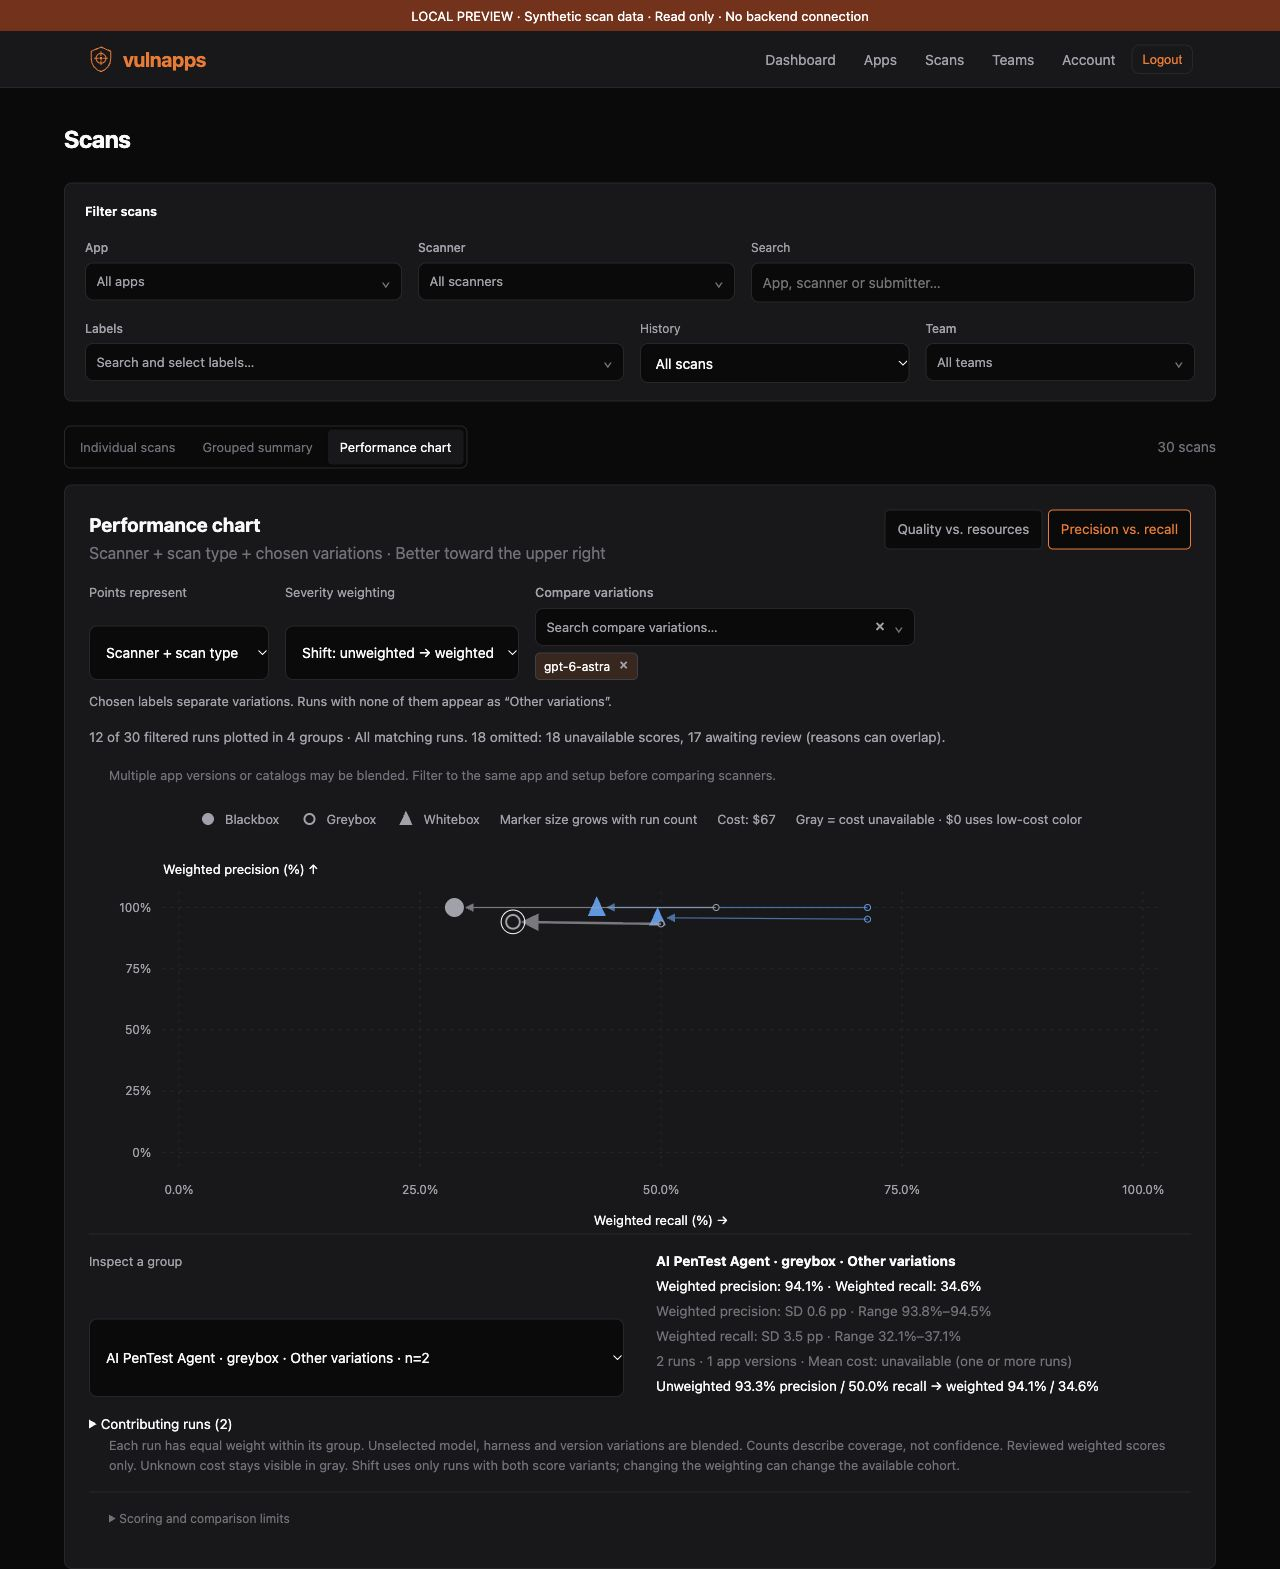
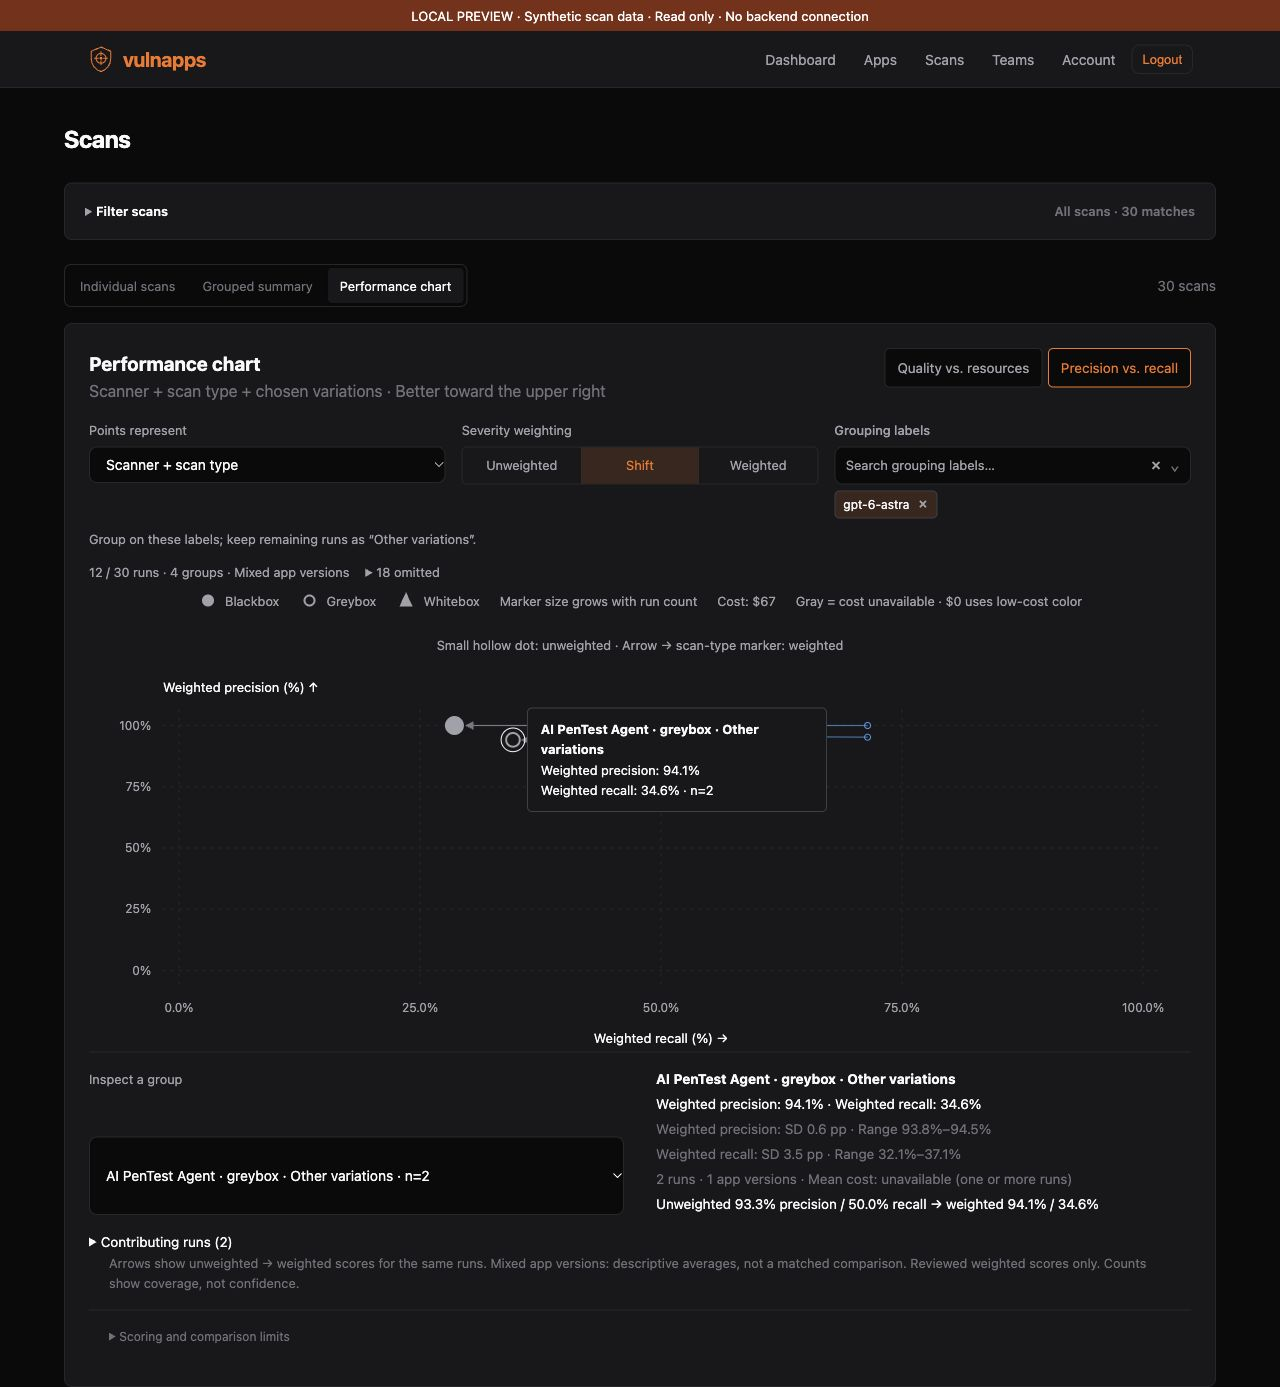
fix(scans): simplify chart controls and reflow

diff --git a/frontend/src/components/ScanPerformanceChart.jsx b/frontend/src/components/ScanPerformanceChart.jsx
@@ -61,6 +61,7 @@ export function ScanPerformanceChart({ scans, labelsMap = {}, resource = 'cost',
   const xLabel = view === 'pr' ? `${weight === 'plain' ? 'Catalog' : 'Weighted'} recall` : chartResources[resource];
   const yLabel = view === 'pr' ? `${weight === 'plain' ? 'Conservative' : 'Weighted'} precision` : chartMetrics[metric];
   const xValue = value => view === 'pr' ? pct(value) : formatChartResource(value, resource);
+  const tooltipWidth = Math.min(300, W - 16);
   const mixedApps = new Set(points.flatMap(point => point.scans.map(scan => scan.app_id))).size > 1;
   const reviewed = view === 'pr' ? weight !== 'plain' : ['weighted_f05', 'weighted_precision'].includes(metric);
   const awaitingReview = reviewed ? scans.filter(scan => scan.metrics?.weighted_score_provisional !== false).length : 0;
@@ -71,7 +72,7 @@ export function ScanPerformanceChart({ scans, labelsMap = {}, resource = 'cost',
   return <section className="card scan-chart" aria-label="Run performance chart">
     <div className="scan-chart-header">
       <div><h2>Performance chart</h2><p className="text-muted">{grouped ? 'Scanner + scan type' : 'One point per run'}{grouped && splitLabels.length ? ' + chosen variations' : ''} · Better toward the {view === 'pr' ? 'upper right' : 'upper left'}</p></div>
-      <div className="scan-chart-switch" aria-label="Chart view">
+      <div className="scan-chart-switch" role="group" aria-label="Chart view">
         <button aria-pressed={view === 'quality'} onClick={() => onAxisChange('chart_plot', 'quality')}>Quality vs. resources</button>
         <button aria-pressed={view === 'pr'} onClick={() => onAxisChange('chart_plot', 'pr')}>Precision vs. recall</button>
       </div>
@@ -88,20 +89,22 @@ export function ScanPerformanceChart({ scans, labelsMap = {}, resource = 'cost',
           <label>X · Resources<select className="form-select" value={resource} onChange={e => onAxisChange('chart_x', e.target.value)}>
             {Object.entries(chartResources).map(([value, label]) => <option key={value} value={value}>{label}</option>)}
           </select></label>
-        </> : <label>Severity weighting<select className="form-select" value={weight} onChange={e => onAxisChange('chart_weight', e.target.value)}>
-          <option value="plain">Unweighted</option><option value="shift">Shift: unweighted → weighted</option><option value="weighted">Weighted</option>
-        </select></label>}
-        {grouped && <div className="scan-chart-variations"><SearchableFilter label="Compare variations" multiple value={splitLabels}
+        </> : <fieldset className="scan-chart-weighting"><legend>Severity weighting</legend><div>
+          {[['plain', 'Unweighted'], ['shift', 'Shift'], ['weighted', 'Weighted']].map(([value, label]) => <label key={value}>
+            <input type="radio" name={`weight-${arrowId}`} value={value} checked={weight === value} onChange={() => onAxisChange('chart_weight', value)} /><span>{label}</span>
+          </label>)}
+        </div></fieldset>}
+        {grouped && <div className="scan-chart-variations"><SearchableFilter label="Grouping labels" multiple value={splitLabels}
           options={labels.map(label => ({ value: label, label }))} onChange={values => onAxisChange('chart_label', values)}
           placeholder="Choose model or harness labels…" allLabel="Blend all variations" /></div>}
       </div>
       {grouped && <p className="scan-chart-variation-help">{splitLabels.length
-        ? 'Chosen labels separate variations. Runs with none of them appear as “Other variations”.'
-        : 'All model and harness variations are blended. Choose labels to compare them separately.'}</p>}
+        ? 'Group on these labels; keep remaining runs as “Other variations”.'
+        : 'Model and harness variations are blended. Choose grouping labels to separate them.'}</p>}
     </div>
-    <p className="scan-chart-coverage" role="status">{plotted} of {scans.length} filtered runs plotted{grouped ? ` in ${points.length} groups` : ''}{latest ? ' · Latest per scanner and app' : ' · All matching runs'}.
-      {excluded > 0 && ` ${excluded} omitted: ${view === 'quality' ? `${missingResource} missing or restricted ${resource}, ` : ''}${missingScore} unavailable scores${awaitingReview ? `, ${awaitingReview} awaiting review` : ''} (reasons can overlap).`}</p>
-    {mixedApps && <p className="scan-summary-note">Multiple app versions or catalogs may be blended. Filter to the same app and setup before comparing scanners.</p>}
+    <div className="scan-chart-status"><p role="status">{plotted} / {scans.length} runs{grouped ? ` · ${points.length} groups` : ''}{latest ? ' · Latest per scanner and app' : ''}{mixedApps ? ' · Mixed app versions' : ''}</p>
+      {excluded > 0 && <details><summary>{excluded} omitted</summary><p>{view === 'quality' ? `${missingResource} missing or restricted ${resource}; ` : ''}{missingScore} unavailable scores{awaitingReview ? `; ${awaitingReview} awaiting review` : ''}. Reasons can overlap.</p></details>}
+    </div>
     {points.length ? <>
       <div className="scan-chart-legend">
         {[...new Set(points.map(point => point.type))].sort().map(type => <span key={type}><svg width="20" height="20" aria-hidden="true"><Marker type={type} x={10} y={10} radius={5} color="var(--text-secondary)" /></svg>{types[type]}</span>)}
@@ -109,6 +112,7 @@ export function ScanPerformanceChart({ scans, labelsMap = {}, resource = 'cost',
         {view === 'quality' ? scanners.map(scanner => <span key={scanner}><i style={{ background: scannerColor(scanner) }} />{scanner}</span>)
           : <><span>Cost: {minCost === null ? costs.length === 0 && points.some(point => point.cost === 0) ? '$0' : 'unavailable' : minCost === maxCost ? formatChartResource(minCost, 'cost') : <>{formatChartResource(minCost, 'cost')}<i className="scan-chart-cost-scale" />{formatChartResource(maxCost, 'cost')} · log scale</>}</span><span>Gray = cost unavailable · $0 uses low-cost color</span></>}
       </div>
+      {view === 'pr' && weight === 'shift' && <p className="scan-chart-shift-key">Small hollow dot: unweighted · Arrow → scan-type marker: weighted</p>}
       <div className="scan-chart-plot" ref={plotRef}>
         <svg viewBox={`0 0 ${W} ${H}`} role="group" aria-label={`${yLabel} versus ${xLabel}. Select a point or use the inspector.`}>
           <defs><marker id={arrowId} viewBox="0 0 10 10" refX="9" refY="5" markerWidth="7" markerHeight="7" orient="auto-start-reverse"><path d="M 0 0 L 10 5 L 0 10 z" fill="context-stroke" /></marker></defs>
@@ -139,6 +143,10 @@ export function ScanPerformanceChart({ scans, labelsMap = {}, resource = 'cost',
             </g>;
           })}
         </svg>
+        {active && <div className="scan-chart-tooltip" aria-hidden="true" style={{ width: tooltipWidth,
+          left: Math.max(8, Math.min(W - tooltipWidth - 8, px(active.x) + 14)), top: Math.max(36, Math.min(H - 105, py(active.y) - 78)) }}>
+          <strong>{active.name}</strong><span>{yLabel}: {pct(active.y)}</span><span>{xLabel}: {xValue(active.x)} · n={active.scans.length}</span>
+        </div>}
       </div>
       <div className="scan-chart-inspector">
         <label>Inspect {grouped ? 'a group' : 'a run'}<select className="form-select" value={selected?.id ?? ''} onChange={e => setSelectedId(e.target.value || null)}>
@@ -155,8 +163,9 @@ export function ScanPerformanceChart({ scans, labelsMap = {}, resource = 'cost',
         <ul>{selected.scans.map(scan => <li key={scan.id}><Link to={`/scans/${scan.id}`}>{runName(scan)}</Link><span className="text-muted"> · {scan.scan_date || 'Date unavailable'} · {(labelsMap[scan.id] || []).map(label => label.name).join(' · ') || 'No labels'}</span></li>)}</ul>
       </details>}
     </> : <div className="scan-chart-empty"><h3>{awaitingReview === scans.length && scans.length ? 'Awaiting review' : 'No runs to plot'}</h3><p>{view === 'pr' ? 'Precision and recall require a scored catalog. Weighted and shift views also require completed finding and FP impact review. Cost is optional.' : 'Choose another metric or resource. Runs need a score and an accessible cost or duration.'}</p></div>}
-    <p className="scan-summary-note">{grouped ? 'Each run has equal weight within its group. Unselected model, harness and version variations are blended. Counts describe coverage, not confidence. ' : ''}{reviewed ? 'Reviewed weighted scores only. ' : ''}{view === 'pr' ? 'Unknown cost stays visible in gray. Shift uses only runs with both score variants; changing the weighting can change the available cohort.' : 'Missing cost or duration omits only that resource point.'}</p>
+    <p className="scan-summary-note">{view === 'pr' && weight === 'shift' ? 'Arrows show unweighted → weighted scores for the same runs. ' : ''}{mixedApps ? 'Mixed app versions: descriptive averages, not a matched comparison. ' : ''}{reviewed ? 'Reviewed weighted scores only. ' : ''}{grouped ? 'Counts show coverage, not confidence.' : ''}</p>
     <details className="scan-stat-help"><summary>Scoring and comparison limits</summary>
+      <p>Each run has equal weight within its group; unselected model, harness and version variations are blended. Choose the same app version and setup for a matched comparison. Unknown cost stays visible in gray on precision/recall; missing cost or duration omits only that resource point. Shift uses only runs with both score variants, so switching weighting can change the available cohort.</p>
       <p>Scanner identifies the tool; labels describe model, harness and other variations. Scan type uses an explicit supported type, otherwise an unambiguous blackbox, greybox/graybox or whitebox label. Missing, conflicting or unsupported types remain unknown. Names and source-access labels never imply a type.</p>
       <p>Unweighted precision in the precision/recall view is TP / (TP + clustered FP + pending); recall is TP / (TP + FN). Pending findings count against precision. This conservative view differs from the pending-excluding precision selectable in quality versus resources.</p>
       <p>Weighted precision uses the canonical reviewed impact score. Weighted recall is credited / available impact, including vulnerability and chain credit; it is impact coverage, not an independent severity-weighted count of findings. Shift arrows connect unweighted to weighted means for the same contributing runs. Reviewer FP penalties use 1/3/9/27 impact points.</p>

diff --git a/frontend/src/style.css b/frontend/src/style.css
@@ -994,11 +994,12 @@ th.sort-desc::after { content: ' ▼'; font-size: 0.625rem; }
 .scan-chart { padding: 1.5rem; }
 .scan-chart-header { display: flex; flex-wrap: wrap; align-items: flex-start; justify-content: space-between; gap: 1rem; }
 .scan-chart-header h2 { font-size: 1.2rem; }
-.scan-chart-controls { display: flex; flex-wrap: wrap; gap: 1rem; }
+.scan-chart-controls { display: grid; grid-template-columns: repeat(auto-fit, minmax(180px, 1fr)); align-items: start; gap: 1rem; }
 .scan-chart-controls label, .scan-chart-inspector label { display: grid; gap: .35rem; font-size: .8rem; color: var(--text-secondary); }
-.scan-chart-controls select { min-width: 180px; }
+.scan-chart-controls > label { min-width: 0; align-content: start; }
+.scan-chart-controls select { width: 100%; min-width: 0; }
 .scan-chart-coverage { margin: 1rem 0; font-size: .85rem; color: var(--text-secondary); }
-.scan-chart-plot { margin-top: 1.25rem; }
+.scan-chart-plot { position: relative; margin-top: 1rem; }
 .scan-chart-plot svg { display: block; width: 100%; }
 .scan-chart-plot text { fill: var(--text-secondary); font-family: var(--font); font-size: 12px; }
 .scan-chart-plot .scan-chart-axis { fill: var(--text); font-size: 13px; }
@@ -1018,8 +1019,20 @@ th.sort-desc::after { content: ' ▼'; font-size: 0.625rem; }
 .scan-chart-switch button { padding: .5rem .75rem; border: 1px solid var(--border); border-radius: 5px; background: var(--bg); color: var(--text-secondary); cursor: pointer; font: inherit; font-size: .85rem; }
 .scan-chart-switch button[aria-pressed="true"] { border-color: var(--accent); color: var(--accent); }
 .scan-chart-toolbar { margin-top: 1rem; }
+.scan-chart-weighting { min-width: 0; padding: 0; margin: 0; border: 0; }
+.scan-chart-weighting legend { padding: 0; margin-bottom: .35rem; color: var(--text-secondary); font-size: .8rem; }
+.scan-chart-weighting > div { display: flex; min-height: 38px; border: 1px solid var(--border); border-radius: 5px; overflow: hidden; }
+.scan-chart-controls .scan-chart-weighting label { display: block; position: relative; flex: 1; cursor: pointer; }
+.scan-chart-weighting input { position: absolute; inset: 0; width: 100%; height: 100%; margin: 0; opacity: 0; cursor: pointer; }
+.scan-chart-weighting span { display: flex; align-items: center; justify-content: center; height: 100%; padding: .45rem .35rem; font-size: .8rem; }
+.scan-chart-weighting input:checked + span { color: var(--accent); background: var(--accent-dim); }
+.scan-chart-weighting input:focus-visible + span { outline: 2px solid var(--accent); outline-offset: -2px; }
+.scan-chart-status { display: flex; flex-wrap: wrap; gap: .5rem 1rem; align-items: baseline; margin-top: .8rem; color: var(--text-secondary); font-size: .8rem; }
+.scan-chart-status p { margin: 0; }
+.scan-chart-status summary { cursor: pointer; }
+.scan-chart-status details p { max-width: 45ch; padding-top: .35rem; }
 .scan-chart-contributors summary { cursor: pointer; font-size: .85rem; }
-.scan-chart-variations { flex: 1 1 260px; min-width: 0; max-width: 380px; }
+.scan-chart-variations { min-width: 0; }
 .scan-chart-variations .searchable-filter-label { font-size: .8rem; }
 .scan-chart-variation-help { margin-top: .65rem; color: var(--text-secondary); font-size: .8rem; }
 .scan-chart-point { cursor: pointer; }
@@ -1027,11 +1040,30 @@ th.sort-desc::after { content: ' ▼'; font-size: 0.625rem; }
 .scan-chart-point:focus > circle:first-of-type { stroke: var(--text); stroke-width: 1; }
 .scan-chart-legend .scan-chart-cost-scale { width: 80px; height: 8px; border-radius: 0; background: linear-gradient(90deg, hsl(210 75% 60%), hsl(25 75% 60%)); }
 .scan-chart-shift { opacity: .7; }
+.scan-chart-shift-key { color: var(--text-secondary); text-align: center; font-size: .8rem; }
+.scan-chart-tooltip { position: absolute; z-index: 2; padding: .65rem .8rem; border: 1px solid var(--border-hover); border-radius: 5px; background: var(--bg-panel); font-size: .8rem; pointer-events: none; overflow-wrap: anywhere; }
+.scan-chart-tooltip strong, .scan-chart-tooltip span { display: block; }
+.scan-filters > summary.scan-filter-heading { display: list-item; list-style-position: inside; cursor: pointer; }
+.scan-filters > summary.scan-filter-heading > span { float: right; }
+.scan-filter-heading::marker { color: var(--text-secondary); }
+.scan-filters:not([open]) .scan-filter-heading { margin-bottom: 0; }
+.scan-filter-actions:empty { display: none; }
+.scan-filter-actions { display: flex; justify-content: flex-end; margin-bottom: .65rem; }
 .scan-chart-contributors ul { padding-left: 1.25rem; font-size: .85rem; }
 .scan-chart-contributors li { margin: .5rem 0; overflow-wrap: anywhere; }
 @media (max-width: 700px) {
   .scan-chart { padding: 1rem; }
   .scan-chart-inspector { grid-template-columns: minmax(0, 1fr); gap: 1rem; }
+  .scan-chart-controls { grid-template-columns: repeat(2, minmax(0, 1fr)); }
+  .scan-chart-controls > label:first-child { grid-column: 1 / -1; }
+  .scan-chart-variations, .scan-chart-weighting { grid-column: 1 / -1; }
+  .scan-chart-weighting > div { min-height: 44px; }
+  .scan-chart-switch { width: 100%; }
+  .scan-chart-switch button { flex: 1; min-width: 0; }
+  .scan-view-bar .scan-segmented { display: flex; flex-wrap: wrap; max-width: 100%; }
+  .scan-view-bar .scan-segmented button { flex: 1 1 auto; }
+  .scan-filter-primary, .scan-filter-secondary, .scan-filter-secondary-scoped { grid-template-columns: repeat(2, minmax(0, 1fr)); }
+  .scan-filter-primary > .scan-filter-field, .scan-filter-secondary > .scan-label-filter { grid-column: 1 / -1; }
 }
 .scan-chart-ideal rect { fill: rgba(34, 197, 94, .045); stroke: var(--success); stroke-width: 1.5; stroke-dasharray: 6 5; }
 .scan-chart-plot .scan-chart-ideal text { fill: var(--success); font-size: 12px; }

diff --git a/frontend/src/pages/ScansList.jsx b/frontend/src/pages/ScansList.jsx
@@ -384,8 +384,9 @@ export default function ScansList() {
       </div>
 
       {user && (
-        <section className="scan-filters mb-2" aria-label="Filter scans">
-          <div className="scan-filter-heading"><span>Filter scans</span>
+        <details className="scan-filters mb-2" aria-label="Filter scans" open={!chartView}>
+          <summary className="scan-filter-heading">Filter scans{chartView && <span className="text-muted">{hasFilters ? 'Filtered' : 'All scans'} · {scans.length} matches</span>}</summary>
+          <div className="scan-filter-actions">
             {hasFilters && <button className="scan-text-button" onClick={resetFilters}>Reset filters</button>}
           </div>
           <div className="scan-filter-primary">
@@ -420,7 +421,7 @@ export default function ScansList() {
               options={teams.map(t => ({ value: `team:${t.id}`, label: t.name }))}
               onChange={value => setFilter('filter', value)} />}
           </div>
-        </section>
+        </details>
       )}
 
       <div className="scan-view-bar mb-2">

diff --git a/AppBuilder.md b/AppBuilder.md
@@ -2300,3 +2300,16 @@ aggregates retain count metrics; weighted F₀.₅ is not inferred from pooled c
 Weights express a review policy, not dollar costs. Compare runs within the same app
 version and benchmark corpus. Mock previews use synthetic data and never modify
 production.
+
+### Performance chart layout
+
+Chart mode starts with the page filters collapsed to a visible match-count summary;
+other result views start with filters expanded. Chart controls align at the top of a
+responsive grid. Grouping labels keep all filtered runs and partition the points;
+they are visually separate from the page-level label filters. Precision/recall exposes
+Unweighted, Shift and Weighted as a native radio group. Omission reasons expand on
+request; comparison caveats remain available below the plot and in scoring details.
+Hover, focus or selection reveals point identity beside the marker, with the full
+inspector and contributing-run links retained below. Shift has an explicit origin/
+endpoint legend. At narrow widths, page filters and view controls reflow without
+truncating all filter values or pushing the active chart tab off screen.

diff --git a/tasks/performance-charts.md b/tasks/performance-charts.md
@@ -25,3 +25,11 @@
 - Revised the variation UX after feedback: searchable picker, removable chips and compact
   names replace checkbox lists and repeated negative-label names.
 - Draft PR targets upstream main; screenshot previews contain synthetic data only.
+
+## UX layout review
+
+- Aligned controls independently of selected chips; made weighting choices visible.
+- Collapsed page filters in chart mode and disclosed omission reasons on request.
+- Clarified grouping labels versus scan filters; retained all filtered runs.
+- Added near-point identity and a shift-origin legend.
+- Reflowed page filters and view controls at narrow widths.
